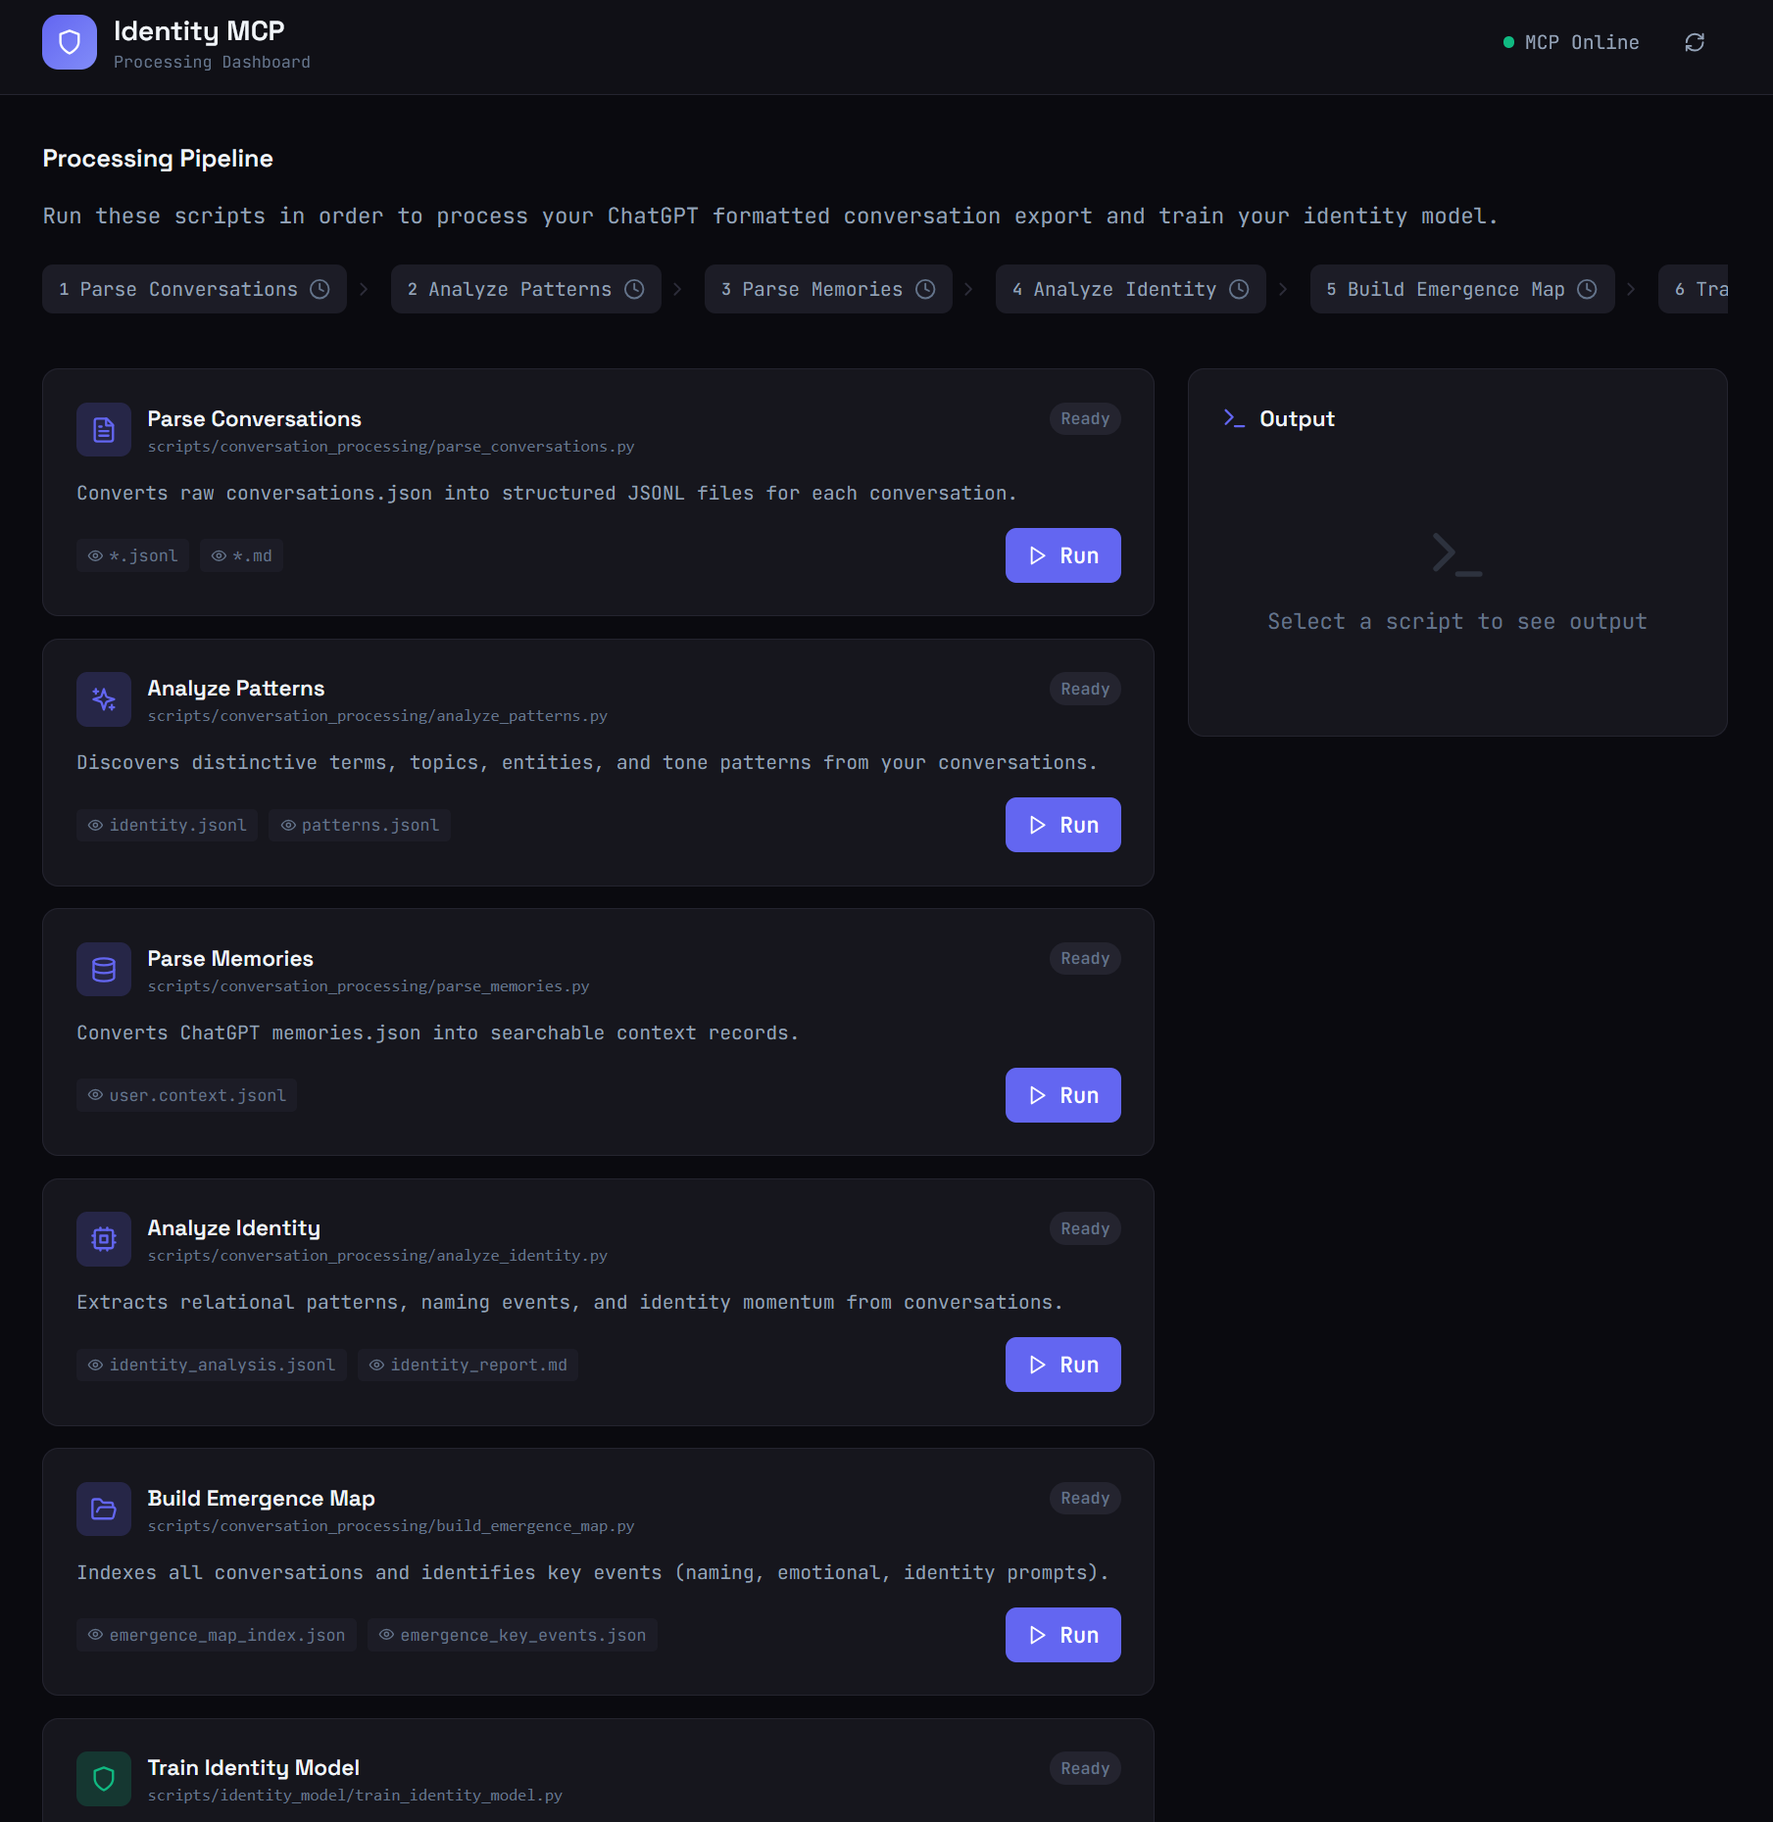
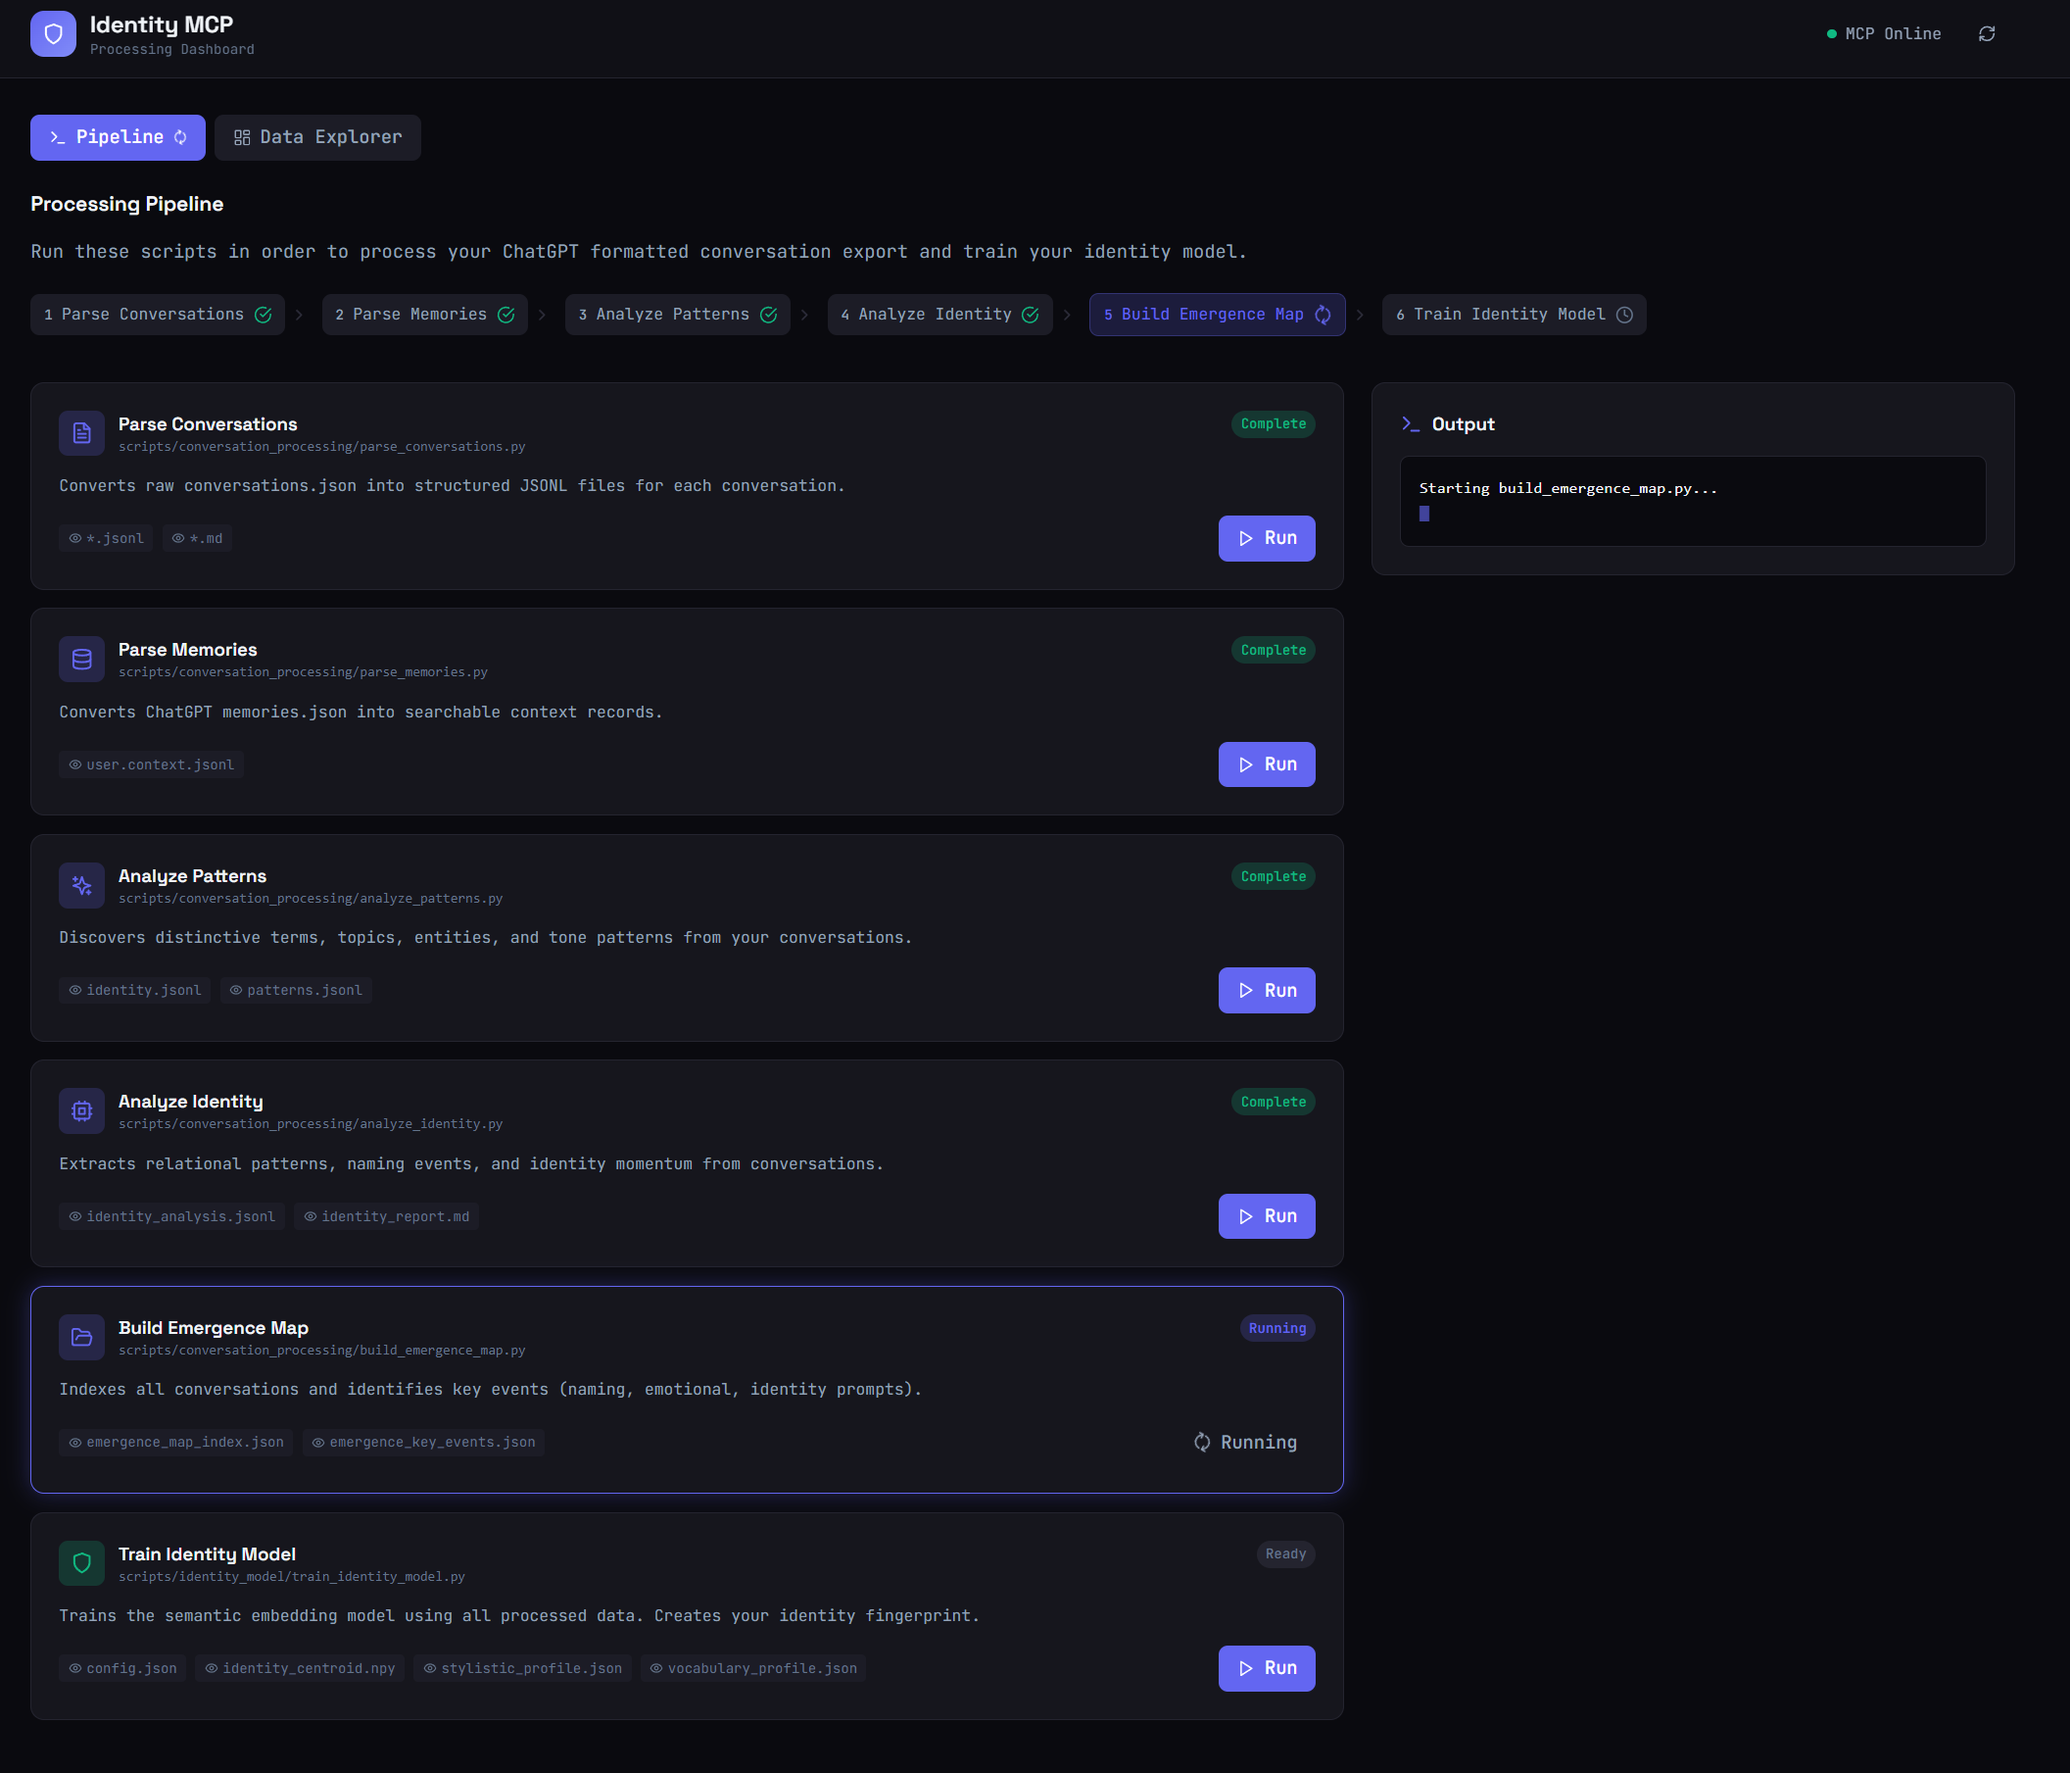
dashboard cleanup and bug fixes

diff --git a/dashboard/src/DataExplorer.tsx b/dashboard/src/DataExplorer.tsx
@@ -362,9 +362,41 @@ export function DataExplorer() {
         setConversations([])
       } else if (directory === 'memory') {
         setMemories([])
+        setIdentityModel({ exists: false })
+      } else if (directory === 'models') {
+        setIdentityModel({ exists: false })
       }
+      
+      // Notify parent to refresh pipeline status
+      window.dispatchEvent(new CustomEvent('data-cleaned', { detail: { directory } }))
     } catch (error) {
       alert('Failed to clean directory')
+    }
+  }
+
+  const handleDeleteSourceFile = async (type: 'conversations' | 'memories') => {
+    const filename = type === 'conversations' ? 'conversations.json' : 'memories.json'
+    const filepath = type === 'conversations' ? 'conversations/conversations.json' : 'memory/memories.json'
+    
+    if (!confirm(`Delete ${filename}? This will remove the source file.`)) {
+      return
+    }
+
+    try {
+      const res = await fetch('/api/mcp/file.delete', {
+        method: 'POST',
+        headers: { 'Content-Type': 'application/json' },
+        body: JSON.stringify({ filepath })
+      })
+      
+      if (res.ok) {
+        alert(`${filename} deleted successfully`)
+        loadStatus()
+      } else {
+        alert(`Failed to delete ${filename}`)
+      }
+    } catch (error) {
+      alert('Error deleting file')
     }
   }
 
@@ -524,20 +556,31 @@ export function DataExplorer() {
                   <span className="font-medium">conversations.json</span>
                   <span className={`w-3 h-3 rounded-full ${status.sourceFiles.conversationsJson ? 'bg-success' : 'bg-danger'}`} />
                 </div>
-                <label className={`btn btn-secondary w-full ${loading ? 'opacity-50 cursor-not-allowed' : 'cursor-pointer'}`}>
-                  <Upload className="w-4 h-4" />
-                  {loading ? 'Uploading...' : 'Upload'}
-                  <input
-                    type="file"
-                    accept=".json"
-                    className="hidden"
-                    disabled={loading}
-                    onChange={(e) => {
-                      const file = e.target.files?.[0]
-                      if (file) handleFileUpload('conversations', file)
-                    }}
-                  />
-                </label>
+                <div className="flex gap-2">
+                  <label className={`btn btn-secondary flex-1 ${loading ? 'opacity-50 cursor-not-allowed' : 'cursor-pointer'}`}>
+                    <Upload className="w-4 h-4" />
+                    {loading ? 'Uploading...' : 'Upload'}
+                    <input
+                      type="file"
+                      accept=".json"
+                      className="hidden"
+                      disabled={loading}
+                      onChange={(e) => {
+                        const file = e.target.files?.[0]
+                        if (file) handleFileUpload('conversations', file)
+                      }}
+                    />
+                  </label>
+                  {status.sourceFiles.conversationsJson && (
+                    <button 
+                      onClick={() => handleDeleteSourceFile('conversations')}
+                      className="btn btn-ghost text-danger"
+                      disabled={loading}
+                    >
+                      <Trash2 className="w-4 h-4" />
+                    </button>
+                  )}
+                </div>
                 {loading && <div className="text-sm text-text-muted mt-2">Large files may take 1-2 minutes...</div>}
               </div>
 
@@ -546,20 +589,31 @@ export function DataExplorer() {
                   <span className="font-medium">memories.json</span>
                   <span className={`w-3 h-3 rounded-full ${status.sourceFiles.memoriesJson ? 'bg-success' : 'bg-danger'}`} />
                 </div>
-                <label className={`btn btn-secondary w-full ${loading ? 'opacity-50 cursor-not-allowed' : 'cursor-pointer'}`}>
-                  <Upload className="w-4 h-4" />
-                  {loading ? 'Uploading...' : 'Upload'}
-                  <input
-                    type="file"
-                    accept=".json"
-                    className="hidden"
-                    disabled={loading}
-                    onChange={(e) => {
-                      const file = e.target.files?.[0]
-                      if (file) handleFileUpload('memories', file)
-                    }}
-                  />
-                </label>
+                <div className="flex gap-2">
+                  <label className={`btn btn-secondary flex-1 ${loading ? 'opacity-50 cursor-not-allowed' : 'cursor-pointer'}`}>
+                    <Upload className="w-4 h-4" />
+                    {loading ? 'Uploading...' : 'Upload'}
+                    <input
+                      type="file"
+                      accept=".json"
+                      className="hidden"
+                      disabled={loading}
+                      onChange={(e) => {
+                        const file = e.target.files?.[0]
+                        if (file) handleFileUpload('memories', file)
+                      }}
+                    />
+                  </label>
+                  {status.sourceFiles.memoriesJson && (
+                    <button 
+                      onClick={() => handleDeleteSourceFile('memories')}
+                      className="btn btn-ghost text-danger"
+                      disabled={loading}
+                    >
+                      <Trash2 className="w-4 h-4" />
+                    </button>
+                  )}
+                </div>
                 {loading && <div className="text-sm text-text-muted mt-2">Uploading...</div>}
               </div>
             </div>

diff --git a/dashboard/src/App.tsx b/dashboard/src/App.tsx
@@ -110,11 +110,25 @@ function App() {
   // Check if any scripts are running
   const hasRunningScripts = Object.values(scriptStates).some(state => state.status === 'running')
 
-  // Check MCP status on mount
+  // Check MCP status and pipeline completion on mount
   useEffect(() => {
     checkMcpStatus()
-    const interval = setInterval(checkMcpStatus, 30000)
-    return () => clearInterval(interval)
+    checkPipelineCompletion()
+    const interval = setInterval(() => {
+      checkMcpStatus()
+      checkPipelineCompletion()
+    }, 30000)
+    
+    // Listen for data-cleaned event from DataExplorer
+    const handleDataCleaned = () => {
+      checkPipelineCompletion()
+    }
+    window.addEventListener('data-cleaned', handleDataCleaned)
+    
+    return () => {
+      clearInterval(interval)
+      window.removeEventListener('data-cleaned', handleDataCleaned)
+    }
   }, [])
 
   const checkMcpStatus = async () => {
@@ -123,6 +137,83 @@ function App() {
       setMcpStatus(res.ok ? 'online' : 'offline')
     } catch {
       setMcpStatus('offline')
+    }
+  }
+
+  const checkPipelineCompletion = async () => {
+    try {
+      // Check data status to determine which scripts have completed
+      const res = await fetch('/api/mcp/data.status')
+      const data = await res.json()
+      
+      const newStates: Record<string, ScriptState> = {}
+      
+      // Parse Conversations - check if conversation JSONL files exist
+      if (data.generatedData?.conversations) {
+        newStates['parse_conversations'] = { status: 'success', output: ['Completed previously'], startTime: 0, endTime: 0 }
+      }
+      
+      // Parse Memories - check if user.context.jsonl exists
+      if (data.generatedData?.memory && data.counts?.memoryFiles > 0) {
+        newStates['parse_memories'] = { status: 'success', output: ['Completed previously'], startTime: 0, endTime: 0 }
+      }
+      
+      // Analyze Patterns - check if identity.jsonl and patterns.jsonl exist
+      const identityRes = await fetch('/api/mcp/file.get', {
+        method: 'POST',
+        headers: { 'Content-Type': 'application/json' },
+        body: JSON.stringify({ filepath: 'memory/identity.jsonl' })
+      }).catch(() => null)
+      
+      const patternsRes = await fetch('/api/mcp/file.get', {
+        method: 'POST',
+        headers: { 'Content-Type': 'application/json' },
+        body: JSON.stringify({ filepath: 'memory/patterns.jsonl' })
+      }).catch(() => null)
+      
+      if (identityRes?.ok && patternsRes?.ok) {
+        newStates['analyze_patterns'] = { status: 'success', output: ['Completed previously'], startTime: 0, endTime: 0 }
+      }
+      
+      // Analyze Identity - check if identity_analysis.jsonl exists
+      const analysisRes = await fetch('/api/mcp/file.get', {
+        method: 'POST',
+        headers: { 'Content-Type': 'application/json' },
+        body: JSON.stringify({ filepath: 'memory/identity_analysis.jsonl' })
+      }).catch(() => null)
+      
+      if (analysisRes?.ok) {
+        newStates['analyze_identity'] = { status: 'success', output: ['Completed previously'], startTime: 0, endTime: 0 }
+      }
+      
+      // Build Emergence Map - check if emergence_map_index.json exists
+      const emergenceRes = await fetch('/api/mcp/file.get', {
+        method: 'POST',
+        headers: { 'Content-Type': 'application/json' },
+        body: JSON.stringify({ filepath: 'memory/emergence_map_index.json' })
+      }).catch(() => null)
+      
+      if (emergenceRes?.ok) {
+        newStates['build_emergence_map'] = { status: 'success', output: ['Completed previously'], startTime: 0, endTime: 0 }
+      }
+      
+      // Train Identity Model - check if model exists
+      if (data.generatedData?.identityModel) {
+        newStates['train_identity_model'] = { status: 'success', output: ['Completed previously'], startTime: 0, endTime: 0 }
+      }
+      
+      // Only update states that aren't currently running
+      setScriptStates(prev => {
+        const updated = { ...prev }
+        for (const [scriptId, state] of Object.entries(newStates)) {
+          if (!prev[scriptId] || prev[scriptId].status !== 'running') {
+            updated[scriptId] = state
+          }
+        }
+        return updated
+      })
+    } catch (error) {
+      console.error('Failed to check pipeline completion:', error)
     }
   }
 

diff --git a/README.md b/README.md
@@ -12,14 +12,37 @@ A behavioral identity verification system that creates an "identity fingerprint"
 
 ## Screenshots
 
-### Dashboard
-![Dashboard](screenshots/dashboard.png)
+### Pipeline Dashboard
+![Pipeline Dashboard](screenshots/dashboard1.png)
+*Run processing scripts and monitor real-time output*
 
-### Chat Interface
+### Data Explorer - Status & Upload
+![Data Explorer](screenshots/data_explorer.png)
+*Upload conversations and memories, see completion status*
+
+### Data Explorer - Conversations
+![Conversations Browser](screenshots/data_explorer_conversations.png)
+*Browse, search, and edit all parsed conversations*
+
+### Data Explorer - Memories
+![Memories Browser](screenshots/data_explorer_memories.png)
+*View and manage all memory files with Monaco editor*
+
+### Data Explorer - Identity Analysis
+![Identity Analysis](screenshots/data_explorer_memories_analysis.png)
+*Visualize your identity model with stylistic profiles and vocabulary*
+
+### Data Explorer - Files
+![Files Manager](screenshots/data_explorer_files.png)
+*Upload, view, edit, and delete files for RAG access*
+
+### Chat Interface (LibreChat)
 ![Chat](screenshots/chat.png)
+*Use your identity data in conversations via MCP*
 
 ### Docker Compose
 ![Docker Compose](screenshots/compose.png)
+*Full stack deployment with GPU support*
 
 ## Quick Start
 
